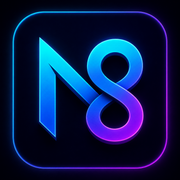
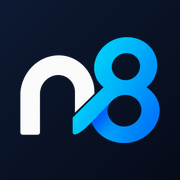
feat(referrals): count clicks to Tech for Pros, and the new n8 mark (#15)
The referrals page and overview count ref:techforpros (n8builds.dev/techforpros), with old Appturnity links on their own line; the setup notes describe the short link as it works. The nav, login and tab icons use the new lowercase n8 mark.

Release-note: skip

diff --git a/components/panels/connectors.tsx b/components/panels/connectors.tsx
@@ -124,13 +124,12 @@ export async function TrafficPanel() {
 }
 
 // ---------------------------------------------------------------------------
-// Referrals to Appturnity
+// Referrals to Tech for Pros
 
 const REFERRAL_PLAN = [
-  <>n8builds-web tags each Appturnity link with its placement (hero ad, &quot;Two ways&quot; card, footer, navbar) and adds <code className={code}>utm_source=n8builds</code>.</>,
-  <>A small click listener, loaded after the page, sends <code className={code}>navigator.sendBeacon(&apos;/api/ref&apos;)</code>, so the click is never slowed down.</>,
-  <>The route checks the placement against an allow-list and adds one to <code className={code}>ref:appturnity:&lt;date&gt;</code> in the analytics database. No IP, ID or cookie.</>,
-  'The same click also sends a Google Analytics event (appturnity_click) as a cross-check, and the utm tags show up in Appturnity\'s own analytics.',
+  <>n8builds-web&apos;s Tech for Pros buttons go through a counted short link, <code className={code}>n8builds.dev/techforpros?from=&lt;placement&gt;</code> (navbar, card).</>,
+  <>The route redirects at once to techforpros.com with <code className={code}>utm_source=n8builds.dev</code>, then adds one to <code className={code}>ref:techforpros:&lt;date&gt;</code> in the analytics database. No IP, ID or cookie.</>,
+  <>Old Appturnity links (<code className={code}>n8builds.dev/appturnity</code>) work the same way and count under <code className={code}>ref:appturnity</code>.</>,
 ]
 
 export async function ReferralsPanel() {
@@ -142,21 +141,33 @@ export async function ReferralsPanel() {
         needs={STORE_VARS}
         plan={REFERRAL_PLAN}
         setupId="upstash"
-        actions={<ExternalAction href="https://appturnity.com" describe="Open appturnity.com">
-            appturnity.com
+        actions={<ExternalAction href="https://techforpros.com" describe="Open techforpros.com">
+            techforpros.com
           </ExternalAction>}
       />
     )
   }
-  let days
+  let days, old
   try {
-    days = await readDailyHashTotals('ref:appturnity', 30)
+    ;[days, old] = await Promise.all([readDailyHashTotals('ref:techforpros', 30), readDailyHashTotals('ref:appturnity', 30)])
   } catch (error) {
     return <PanelError message={errorMessage(error)} />
   }
   const total = days.reduce((sum, day) => sum + day.total, 0)
+  const oldTotal = old.reduce((sum, day) => sum + day.total, 0)
+  // Old Appturnity links still redirect; their clicks show apart, under the trend.
+  const oldLine = oldTotal > 0 && (
+    <p className="text-sm text-slate-400">
+      Old Appturnity links: {formatNumber(oldTotal)} {oldTotal === 1 ? 'click' : 'clicks'} in 30 days
+    </p>
+  )
   if (total === 0) {
-    return <NotConnected title="Waiting for the counter" why="The analytics database is connected, but n8builds-web doesn't count Appturnity clicks yet." plan={REFERRAL_PLAN} />
+    return (
+      <div className="flex flex-col gap-6">
+        <NotConnected title="No clicks yet" why="n8builds.dev counts each click on its Tech for Pros buttons; none in the last 30 days." plan={REFERRAL_PLAN} />
+        {oldLine}
+      </div>
+    )
   }
   const byPlacement = new Map<string, number>()
   for (const day of days) for (const [field, value] of Object.entries(day.byField)) byPlacement.set(field, (byPlacement.get(field) ?? 0) + value)
@@ -167,8 +178,9 @@ export async function ReferralsPanel() {
         <Stat label="7 days" value={formatNumber(days.slice(-7).reduce((sum, day) => sum + day.total, 0))} />
         <Stat label="30 days" value={formatNumber(total)} />
       </div>
-      <Sparkline values={days.map((day) => day.total)} label="Appturnity clicks per day, last 30 days" />
+      <Sparkline values={days.map((day) => day.total)} label="Tech for Pros clicks per day, last 30 days" />
       <BarList rows={[...byPlacement.entries()].map(([label, value]) => ({ label, value })).sort((a, b) => b.value - a.value)} format={formatNumber} />
+      {oldLine}
     </div>
   )
 }

diff --git a/lib/overview.ts b/lib/overview.ts
@@ -105,11 +105,11 @@ async function traffic(): Promise<Summary> {
 
 async function referrals(): Promise<Summary> {
   if (!isStoreConnected()) return notConnected('referrals', 'Needs the analytics database and a counter on n8builds.dev')
-  const days = await readDailyHashTotals('ref:appturnity', 30)
+  const days = await readDailyHashTotals('ref:techforpros', 30)
   const total = days.reduce((sum, day) => sum + day.total, 0)
   return total === 0
-    ? { area: 'referrals', key: 'referrals', headline: 'No clicks yet', detail: 'The counter isn\'t on n8builds.dev yet', status: 'Waiting', tone: 'off' }
-    : { area: 'referrals', key: 'referrals', headline: formatNumber(total), detail: 'clicks to appturnity.com in 30 days', status: '30 days', tone: 'quiet' }
+    ? { area: 'referrals', key: 'referrals', headline: 'No clicks yet', detail: 'None to techforpros.com in 30 days', status: '30 days', tone: 'off' }
+    : { area: 'referrals', key: 'referrals', headline: formatNumber(total), detail: 'clicks to techforpros.com in 30 days', status: '30 days', tone: 'quiet' }
 }
 
 async function game(): Promise<Summary> {

diff --git a/lib/areas.tsx b/lib/areas.tsx
@@ -180,13 +180,14 @@ export const AREAS: Record<AreaId, Area> = {
   referrals: {
     id: 'referrals',
     href: '/referrals',
-    label: 'Referrals to Appturnity',
+    label: 'Referrals to Tech for Pros',
     icon: LuMousePointerClick,
     accent: accent.cyan,
-    summary: 'How many visitors n8builds.dev sends to appturnity.com.',
+    summary: 'How many visitors n8builds.dev sends to techforpros.com.',
     about: [
-      'n8builds.dev advertises Appturnity under the hero, in "Two ways to put me to work" and in the footer.',
+      'n8builds.dev links to Tech for Pros from its navbar button and its "Work with me" card.',
       'This counts the clicks on those links, by placement, so you can see which ones work.',
+      'Old links to Appturnity (n8builds.dev/appturnity) still redirect there, and are counted apart.',
       'Only daily totals are stored: no IPs, no IDs, no cookies.',
     ],
   },

diff --git a/tests/e2e/pages.ts b/tests/e2e/pages.ts
@@ -9,7 +9,7 @@ export const PAGES = [
   { path: '/demos', heading: 'Live demos' },
   { path: '/errors', heading: 'Errors' },
   { path: '/traffic', heading: 'Website traffic' },
-  { path: '/referrals', heading: 'Referrals to Appturnity' },
+  { path: '/referrals', heading: 'Referrals to Tech for Pros' },
   { path: '/contact', heading: 'Contact messages' },
   { path: '/game', heading: 'Dino game' },
   { path: '/setup', heading: 'Setup' },

diff --git a/app/(dashboard)/referrals/page.tsx b/app/(dashboard)/referrals/page.tsx
@@ -17,7 +17,7 @@ export default async function Page() {
       <PageHeader
         area={area}
       />
-      <Panel id="referrals" title="Clicks to appturnity.com" description="Counted on n8builds.dev, by link placement.">
+      <Panel id="referrals" title="Clicks to techforpros.com" description="Counted on n8builds.dev, by link placement.">
         <Slot>
           <ReferralsPanel />
         </Slot>
